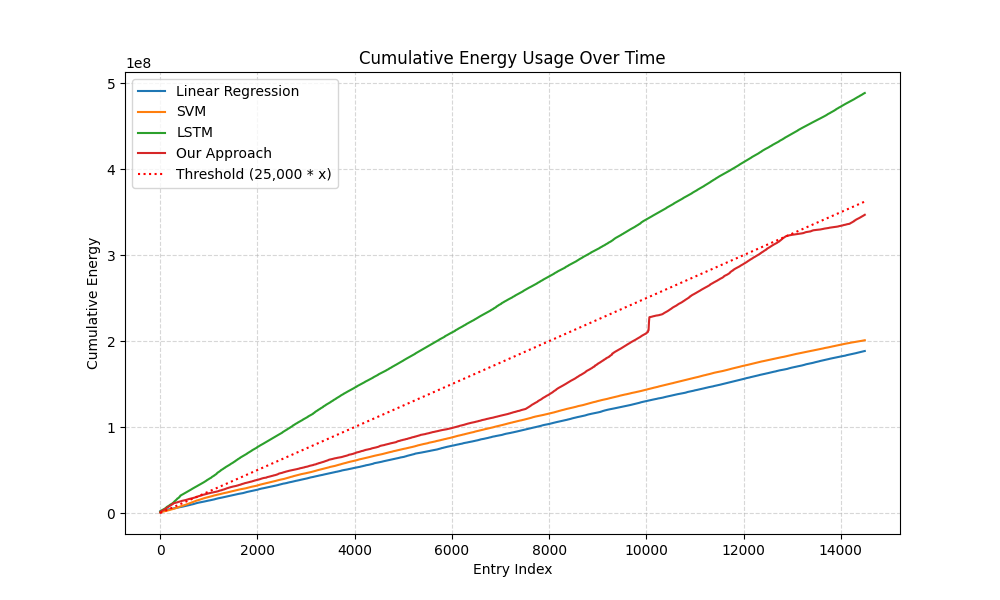
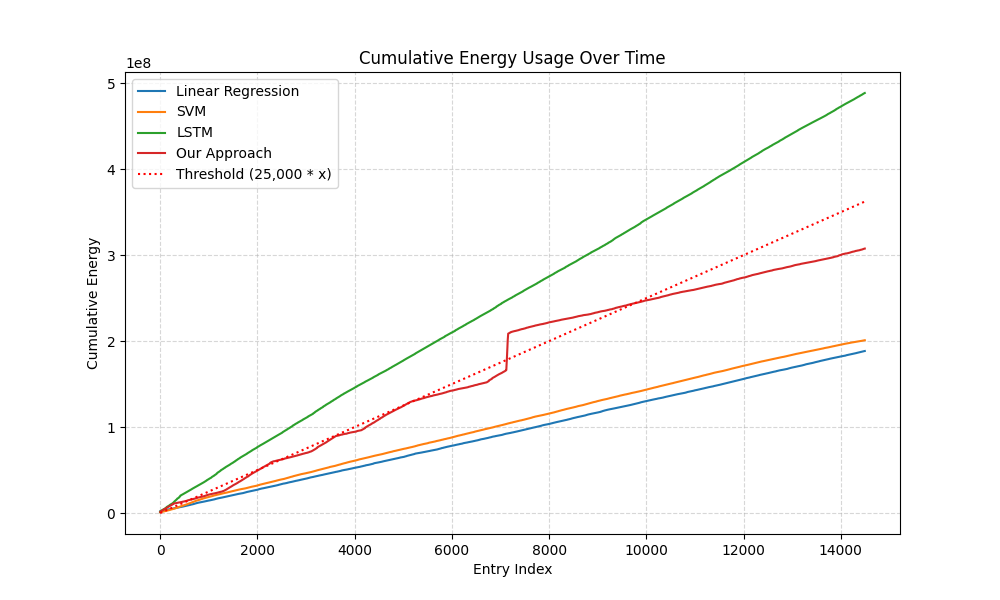
visualize 9

diff --git a/tools/vis.py b/tools/vis.py
@@ -7,7 +7,7 @@ models = {
     "Linear Regression": "output/updated/modified_predictions_linear.csv",
     "SVM": "output/updated/modified_predictions_svm.csv",
     "LSTM": "output/updated/modified_predictions_lstm.csv",
-    "Our Approach": "output/runs/predictions_9.csv"
+    "Our Approach": "output/unused_runs/predictions_9_bestsofar.csv"
 }
 
 # Create plots for each model
